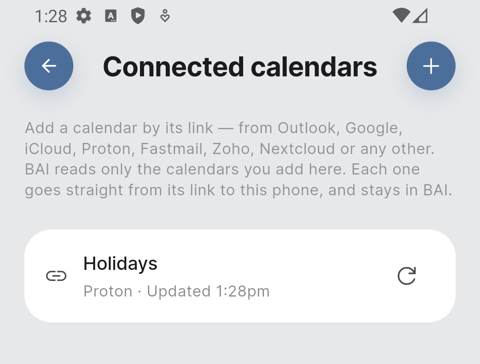
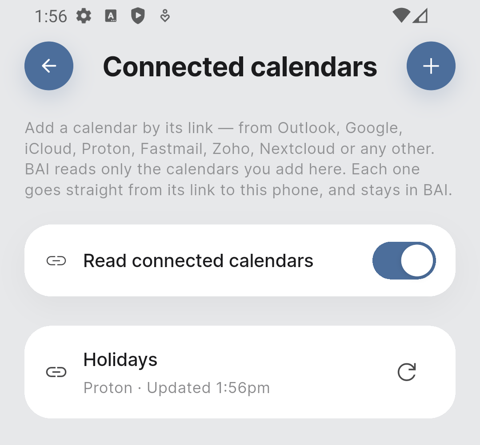
tutorial_widgets

diff --git a/tutorial/index.html b/tutorial/index.html
@@ -145,6 +145,7 @@
       <li><a href="#alerts">4 · Alerts</a></li>
       <li><a href="#mood">5 · Mood</a></li>
       <li><a href="#insights">6 · Insights</a></li>
+      <li><a href="#widget">7 · Widget</a></li>
     </ol>
   </nav>
 </header>
@@ -585,6 +586,9 @@
         <li>Each calendar shows when it was last updated. BAI updates it by itself;
             the <strong>refresh</strong> button updates it now. Tap a calendar to
             remove it.</li>
+        <li>To stop BAI reading them for a while, turn off
+            <strong>Read connected calendars</strong> at the top. Your calendars and
+            their links are kept, and come back as soon as you turn it on again.</li>
         <li>To see which calendar an event came from, tap it on the Schedule: it says
             <em>Phone – Work</em> for a calendar on your phone, or
             <em>Linked calendar – Holidays</em> for one you connected. The same event
@@ -601,7 +605,7 @@
     <figure>
       <img src="img/connected-add.png" alt="Adding a Proton calendar: where to find the link, the link pasted, named Holidays, and the Connect button" onerror="shotMissing(this)">
       <figcaption>Paste the link and name it</figcaption>
-      <img style="margin-top:18px" src="img/connected-list.png" alt="Connected calendars listing Holidays, from Proton, updated 1:28pm, with a refresh button" onerror="shotMissing(this)">
+      <img style="margin-top:18px" src="img/connected-list.png" alt="Connected calendars with Read connected calendars switched on, listing Holidays, from Proton, updated 1:56pm, with a refresh button" onerror="shotMissing(this)">
       <figcaption>Connected, with when it last updated</figcaption>
       <img style="margin-top:18px" src="img/event-source.png" alt="The sheet for Team meeting, 10:00am to 11:00am, saying Phone – Work under the time" onerror="shotMissing(this)">
       <figcaption>Tap an event to see its calendar</figcaption>
@@ -1290,6 +1294,85 @@
       <img src="img/insights-arrangement.png" alt="The Your arrangement panel in Insights" onerror="shotMissing(this)">
       <figcaption>Insights · your arrangement</figcaption>
     </figure>
+  </div>
+</section>
+
+<section id="widget">
+  <p class="eyebrow">Step 7</p>
+  <h2>The widget — your day without opening BAI</h2>
+  <p>
+    BAI has a widget: today's load at a glance on your home screen, and on an iPhone
+    on the lock screen too. With the calendar off it becomes a one-tap mood check-in
+    instead.
+  </p>
+
+  <div class="step">
+    <div class="step-body">
+      <h3><span class="num">1</span>On an iPhone <span class="new">New</span></h3>
+      <p><strong>Home screen</strong> — keeps the BAI icon where it is:</p>
+      <ol>
+        <li>Touch and hold an empty spot on the home screen until the apps jiggle.</li>
+        <li>Tap <strong>Edit</strong>, then <strong>Add Widget</strong>.</li>
+        <li>Find <strong>BAI</strong>, choose a size — small or medium — and tap
+            <strong>Add Widget</strong>. Tap <strong>Done</strong>.</li>
+      </ol>
+      <p class="why">
+        Touching and holding the BAI icon itself also offers the widget, but on
+        iPhone that <em>turns the icon into the widget</em> — the icon goes from the
+        home screen. BAI is not deleted: it is still in the App Library (swipe left
+        past your last home screen), and tapping the widget opens it. Use the steps
+        above to keep both.
+      </p>
+      <p><strong>Lock screen</strong> — a small ring, like the battery one:</p>
+      <ol>
+        <li>Touch and hold the lock screen, then tap <strong>Customize</strong> and
+            choose <strong>Lock Screen</strong>.</li>
+        <li>Tap the widget area under the clock.</li>
+        <li>Choose <strong>BAI</strong>: the <strong>round</strong> one shows how much of
+            today is booked as a ring and a percentage; the <strong>wide</strong> one
+            says the day in words and the hours booked. Tap <strong>Done</strong>.</li>
+      </ol>
+      <p class="why">
+        The lock screen draws widgets in one colour to match your wallpaper, so the
+        ring does not turn amber or red — the percentage says it.
+      </p>
+    </div>
+  </div>
+
+  <div class="step">
+    <div class="step-body">
+      <h3><span class="num">2</span>On an Android phone <span class="new">New</span></h3>
+      <ol>
+        <li>Touch and hold an empty spot on the home screen, then tap
+            <strong>Widgets</strong>.</li>
+        <li>Find <strong>BAI</strong> in the list and tap it to see the widget.</li>
+        <li>Touch and hold the widget, and drag it to where you want it on the home
+            screen.</li>
+      </ol>
+      <p>
+        It shows the day in a word — <em>Balanced</em>, <em>Filling up</em>,
+        <em>Overloaded</em> — the hours booked, and when it was last updated. Android
+        has no lock-screen widgets on phones, so this one is for the home screen only.
+      </p>
+    </div>
+    <figure>
+      <img src="img/widget-android-picker.png" alt="Android's widget list opened on BAI: Today's capacity, or a quick mood check-in" onerror="shotMissing(this)">
+      <figcaption>Widgets · BAI</figcaption>
+      <img style="margin-top:18px" src="img/widget-android.png" alt="The BAI widget on an Android home screen: Balanced, 4.5h booked, as of 11:42 AM" onerror="shotMissing(this)">
+      <figcaption>On the home screen</figcaption>
+    </figure>
+  </div>
+
+  <div class="step">
+    <div class="step-body">
+      <h3><span class="num">3</span>Keeping it up to date</h3>
+      <p>
+        The widget shows the day as BAI last read your calendar, and says when —
+        <em>as of 11:42</em>. It refreshes whenever you open BAI, and in the
+        background when your phone allows. If it looks out of date, open BAI for a
+        moment.
+      </p>
+    </div>
   </div>
 </section>
 
